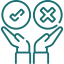
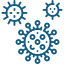
NurseSummit

diff --git a/tailwind.config.js b/tailwind.config.js
@@ -73,7 +73,7 @@
 // };
 
 // -------------------The code 1 is here-------------
-/** /** /** /** /** /** @type {import('tailwindcss').Config} */
+/** /** /** /** /** /** /** @type {import('tailwindcss').Config} */
 module.exports = {
   webpack(config) {
     config.module.rules.push({
@@ -97,33 +97,32 @@ module.exports = {
         slideUp: "slideUp 0.5s ease-out",
       },
 
- colors: {
-  /* 🟣 Brand colors – UPDATED */
-  one: "#368081",
-  accent: "#368081",
-  brand: "#368081",
+      colors: {
+        /* 🔵 Brand colors – UPDATED */
+        one: "#286789",
+        accent: "#286789",
+        brand: "#286789",
 
-  /* 🌑 Backgrounds */
-  primary: "#0E1120",
-  secondary: "#151A33",
-  coal: "#0A0D1A",
+        /* 🌑 Backgrounds */
+        primary: "#0E1120",
+        secondary: "#151A33",
+        coal: "#0A0D1A",
 
-  /* 🎨 Supporting / UI (derived from brand) */
-  sky: "rgba(54, 128, 129, 0.1)",
-  orange: "rgba(54, 128, 129, 0.4)",
-  lightGreen: "rgba(54, 128, 129, 0.2)",
+        /* 🎨 Supporting / UI (derived from brand) */
+        sky: "rgba(40, 103, 137, 0.1)",
+        orange: "rgba(40, 103, 137, 0.4)",
+        lightGreen: "rgba(40, 103, 137, 0.2)",
 
-  /* 📊 Track / row colors */
-  track: {
-    odd: "#1B1F3A",
-    even: "#13172E",
-    purple: "#368081", // you can rename this later if you want
-  },
-},
-
+        /* 📊 Track / row colors */
+        track: {
+          odd: "#1B1F3A",
+          even: "#13172E",
+          purple: "#286789", // brand-aligned
+        },
+      },
 
       textShadow: {
-        "brand-glow": "0px 0px 50px #c037ad",
+        "brand-glow": "0px 0px 50px #286789",
       },
 
       keyframes: {

diff --git a/src/index.css b/src/index.css
@@ -4,10 +4,10 @@
 
 :root {
   /* --tw-shadow-color: #7ab326; replaced with Purple */
-  --tw-shadow-color: #368081;
---one: #368081;       /* Buttons, headings */
+  --tw-shadow-color: #286789;
+--one: #286789;       /* Buttons, headings */
   --primary: #1F1F1F;    /* Background dark */
- --accent: #368081;   /* Links, hover states */
+ --accent: #286789;   /* Links, hover states */
 }
 
 /* Page Backgrounds */
@@ -29,7 +29,7 @@
   display: flex;
   overflow: hidden;
   gap: var(--gap);
-  border: 2px dashed#368081;
+  border: 2px dashed#286789;
 }
 
 .marquee__content {
@@ -49,7 +49,7 @@
 .marquee__content > * {
   flex: 0 0 auto;
   color: #ffffff;
-  background:#368081;
+  background:#286789;
   margin: 2px;
   padding: 1rem 2rem;
   border-radius: 0.25rem;
@@ -121,7 +121,7 @@
   height: 2px;
   bottom: 0;
   left: 0;
-  background-color: #368081;
+  background-color: #286789;
   transition: transform 0.25s ease-out;
 }
 

diff --git a/src/App.css b/src/App.css
@@ -14,7 +14,7 @@
 }
 
 .App-header {
-  background-color: #368081; /* changed from #282c34 */
+  background-color: #286789; /* changed from #282c34 */
   min-height: 100vh;
   display: flex;
   flex-direction: column;
@@ -25,7 +25,7 @@
 }
 
 .App-link {
-  color:#368081; /* changed from #61dafb */
+  color:#286789; /* changed from #61dafb */
 }
 
 .partners {
@@ -58,7 +58,7 @@
   width: 100%;
   height: 100%;
   font-size: 2rem;
-  background-color: #368081; /* changed from #1f2937 */
+  background-color: #286789; /* changed from #1f2937 */
   color: white;
   display: flex;
   align-items: center;

diff --git a/src/components/Navbar.jsx b/src/components/Navbar.jsx
@@ -224,7 +224,7 @@ const Navbar = () => {
                   ? "none"
                   : scrolled
                   ? "none"
-                  : "2px solid #c037ad",
+                  : "2px solid #286789",
               backgroundColor:
                 isOpen && window.innerWidth < 1024
                   ? "transparent"

diff --git a/src/Styles/GoogleTranslate.css b/src/Styles/GoogleTranslate.css
@@ -45,6 +45,6 @@
   font-size: 1rem !important; /* Tailwind text-xs */
   height: 40px !important;
   padding: 2px 4px !important;
-  color:#c037ad!important;
-  border: .5px solid #c037ad;
+  color:#286789!important;
+  border: .5px solid #286789;
 }
